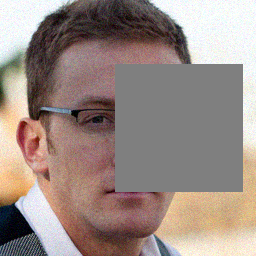
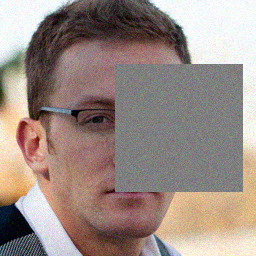
added class

diff --git a/pseudo_inverse.py b/pseudo_inverse.py
@@ -5,6 +5,7 @@ import argparse
 import torch
 import torchvision
 import numpy as np
+import matplotlib.pyplot as plt
 from guided_diffusion.unet import create_model
 from PIL import Image
 from utils import *
@@ -20,16 +21,19 @@ class LinearOperator:
         self.n = int(np.prod(image_shape))
         self.m = measurement_dim
         self.device = device
-
-        C, H, W = image_shape
+        _, C, H, W = image_shape   
         n = C * H * W
 
-        g = torch.Generator(device="cpu")
-        g.manual_seed(seed)
+        hcrop, wcrop = H // 2, W // 2
+        corner_top, corner_left = H // 4, int(0.45 * W)
+        mask = torch.ones(image_shape, device=device)
+        mask[:, :, corner_top:corner_top + hcrop, corner_left:corner_left + wcrop] = 0
+        # g = torch.Generator(device="cpu")
+        # g.manual_seed(seed)
 
-        mask = torch.rand(n, generator=g)
-        mask = (mask > mask_ratio).float()   
-        mask = mask.view(1, C, H, W)
+        # mask = torch.rand(n, generator=g)
+        # mask = (mask > mask_ratio).float()
+        # mask = mask.view(1, C, H, W)
 
         self.mask = mask.to(device)
 
@@ -44,7 +48,7 @@ class LinearOperator:
         return y
 
     def H_pinv(self, y):
-         return y * self.mask
+        return y * self.mask
 
     @torch.no_grad()
     def observe(self, x0):
@@ -53,15 +57,15 @@ class LinearOperator:
 
 def predict_x0_from_eps(x_t, eps_theta, alpha_bar_t):
     sqrt_alpha_bar_t = torch.sqrt(alpha_bar_t)
-    sqrt_one_minus_alpha_bar_t = torch.sqrt(1.0 - alpha_bar_t)
-    x0_hat = (x_t - sqrt_one_minus_alpha_bar_t * eps_theta) / sqrt_alpha_bar_t
+    sqrt_one_minus_alpha_bar_t = torch.sqrt(torch.clamp(1.0 - alpha_bar_t, min=1e-12))
+    x0_hat = (x_t - sqrt_one_minus_alpha_bar_t * eps_theta) / torch.clamp(sqrt_alpha_bar_t, min=1e-12)
     return x0_hat
 
 
 def compute_pseudoinverse_guidance(x_t, x0_hat, y, operator):
-    mat = operator(y) - operator(operator(x0_hat))
+    mat = operator.H_pinv(y) - operator.H_pinv(operator.H(x0_hat))
     inner = (mat.detach() * x0_hat).sum()
-    guidance = torch.autograd.grad(inner, x_t, retain_graph=False, create_graph=False)[0]
+    guidance = torch.autograd.grad(inner, x_t)[0]
     return guidance
 
 
@@ -69,8 +73,11 @@ def compute_pseudoinverse_guidance(x_t, x0_hat, y, operator):
 def ddim_step_from_x0_eps(x0_hat, eps_theta, alpha_bar_t, alpha_bar_s, eta):
     if eta > 0.0:
         sigma_ts = eta * torch.sqrt(
-            ((1.0 - alpha_bar_s) / (1.0 - alpha_bar_t)) *
-            (1.0 - alpha_bar_t / alpha_bar_s)
+            torch.clamp(
+                ((1.0 - alpha_bar_s) / torch.clamp(1.0 - alpha_bar_t, min=1e-12)) *
+                (1.0 - alpha_bar_t / torch.clamp(alpha_bar_s, min=1e-12)),
+                min=0.0
+            )
         )
         z = torch.randn_like(x0_hat)
     else:
@@ -98,41 +105,48 @@ def pseudoinverse_guided_sample(
 
     num_train_steps = diffusion_config["num_timesteps"]
     num_inference_steps = diffusion_config.get("num_inference_steps", 50)
+    
     eta = diffusion_config.get("eta", 0.0)
+    guidance_scale = diffusion_config.get("guidance_scale", 1e-4)
 
     timesteps = np.linspace(0, num_train_steps - 1, num_inference_steps, dtype=int)[::-1]
 
-    x = torch.randn_like(y, device = y.device)
+    x = torch.randn_like(y, device=y.device)
 
     alpha_bar = scheduler.alpha_bar.to(device)
 
     for i, t in enumerate(tqdm(timesteps, desc="PiGDM sampling")):
         s = timesteps[i + 1] if i + 1 < len(timesteps) else 0
 
-        t_batch = torch.full((batch_size,), t, device=device, dtype=torch.long)
+        t_batch = torch.full((batch_size,), int(t), device=device, dtype=torch.long)
 
         x = x.detach()
         x.requires_grad_(True)
-        # print(x.size(), t_batch.size())
-        eps_theta = model(x, t_batch)[:,:3,:,:]
+
+        eps_theta = model(x, t_batch)[:, :3, :, :]
 
         alpha_bar_t = alpha_bar[t].view(1, 1, 1, 1)
         alpha_bar_s = alpha_bar[s].view(1, 1, 1, 1)
 
         x0_hat = predict_x0_from_eps(x, eps_theta, alpha_bar_t)
+        x0_hat = torch.clamp(x0_hat, -1.0, 1.0)
+
         guidance = compute_pseudoinverse_guidance(x, x0_hat, y, operator)
+        guidance = torch.nan_to_num(guidance, nan=0.0, posinf=0.0, neginf=0.0)
 
         x_ddim = ddim_step_from_x0_eps(x0_hat, eps_theta, alpha_bar_t, alpha_bar_s, eta)
 
-        # Add sqrt(alpha_t) * g
-        x = x_ddim + torch.sqrt(alpha_bar_t) * guidance
+        x = x_ddim + guidance_scale * torch.sqrt(alpha_bar_t) * guidance
+
+        x = torch.nan_to_num(x, nan=0.0, posinf=1.0, neginf=-1.0)
         x = x.detach()
 
     return x
 
 
 def save_grid(x, path, nrow=8):
-    ims = torch.clamp(x, -1.0, 1.0).cpu()
+    ims = torch.nan_to_num(x, nan=0.0, posinf=1.0, neginf=-1.0)
+    ims = torch.clamp(ims, -1.0, 1.0).cpu()
     ims = (ims + 1.0) / 2.0
     grid = make_grid(ims, nrow=nrow)
     img = torchvision.transforms.ToPILImage()(grid)
@@ -149,24 +163,26 @@ def run(args):
     train_config = config["train_config"]
     image_index = train_config['image_index']
 
-    config = {'image_size': 256,
-                'num_channels': 128,
-                'num_res_blocks': 1,
-                'channel_mult': '',
-                'learn_sigma': True,
-                'class_cond': False,
-                'use_checkpoint': False,
-                'attention_resolutions': 16,
-                'num_heads': 4,
-                'num_head_channels': 64,
-                'num_heads_upsample': -1,
-                'use_scale_shift_norm': True,
-                'dropout': 0.0,
-                'resblock_updown': True,
-                'use_fp16': False,
-                'use_new_attention_order': False,
-                'model_path': './ffhq_10m.pt'}
-    
+    config = {
+        'image_size': 256,
+        'num_channels': 128,
+        'num_res_blocks': 1,
+        'channel_mult': '',
+        'learn_sigma': True,
+        'class_cond': False,
+        'use_checkpoint': False,
+        'attention_resolutions': 16,
+        'num_heads': 4,
+        'num_head_channels': 64,
+        'num_heads_upsample': -1,
+        'use_scale_shift_norm': True,
+        'dropout': 0.0,
+        'resblock_updown': True,
+        'use_fp16': False,
+        'use_new_attention_order': False,
+        'model_path': './ffhq_10m.pt'
+    }
+
     model = create_model(**config)
     model = model.to(device)
     model.eval()
@@ -179,37 +195,33 @@ def run(args):
     )
 
     idx = image_index
-    img_pil = Image.open('ffhq256-1k-validation/'+str(idx).zfill(5)+'.png')
-    x0 = im2tensor(plt.imread('ffhq256-1k-validation/'+str(idx).zfill(5)+'.png'))
+    img_pil = Image.open('ffhq256-1k-validation/' + str(idx).zfill(5) + '.png')
+    x0 = im2tensor(plt.imread('ffhq256-1k-validation/' + str(idx).zfill(5) + '.png')).to(device)
     imgshape = x0.shape
 
     h = imgshape[2]
     w = imgshape[3]
-    hcrop, wcrop = h//2, w//2
-    corner_top, corner_left = h//4, int(0.45*w)
+    hcrop, wcrop = h // 2, w // 2
+    corner_top, corner_left = h // 4, int(0.45 * w)
     mask = torch.ones(imgshape, device=device)
-    mask[:,:,corner_top:corner_top+hcrop,corner_left:corner_left+wcrop] = 0
+    mask[:, :, corner_top:corner_top + hcrop, corner_left:corner_left + wcrop] = 0
 
-    # operator = LinearOperator(
-    #     image_shape=imgshape,
-    #     measurement_dim=0.0,
-    #     seed=args.seed,
-    #     mask_ratio=0.5,
-    #     device=device,
-    # )
 
-    def linear_operator(x):
-        x = x*mask
-        return(x)
+    operator = LinearOperator(
+        image_shape=imgshape,
+        measurement_dim=0.0,
+        mask_ratio=0.5,
+        seed = 0,
+        device = device
+    )
 
-    x_true = x0.clone()
-
-    sigma_noise = 2*10/255
-
-    y = linear_operator(x_true.clone()) + sigma_noise * mask * torch.randn_like(x_true)
+    sigma_noise = 2 * 10 / 255
+    noise = torch.normal(0.0, std = sigma_noise, size = x0.size(), device=device)
+    y = operator.H(x0.clone()) + noise
 
     with torch.no_grad():
-        x_init = linear_operator(y)
+        x_init = y
+
     save_grid(x_init, args.pinv_init_path, nrow=train_config["num_grid_rows"])
 
     x_rec = pseudoinverse_guided_sample(
@@ -217,7 +229,7 @@ def run(args):
         scheduler=scheduler,
         model_config=model_config,
         diffusion_config=diffusion_config,
-        operator=linear_operator,
+        operator=operator,
         y=y,
     )
 
@@ -235,5 +247,8 @@ if __name__ == "__main__":
     parser.add_argument("--output_path", type=str, default="./samples/pigdm_randomH.png")
     parser.add_argument("--pinv_init_path", type=str, default="./samples/pinv_init.png")
     args = parser.parse_args()
+
+    torch.manual_seed(args.seed)
+    np.random.seed(args.seed)
 
     run(args)
